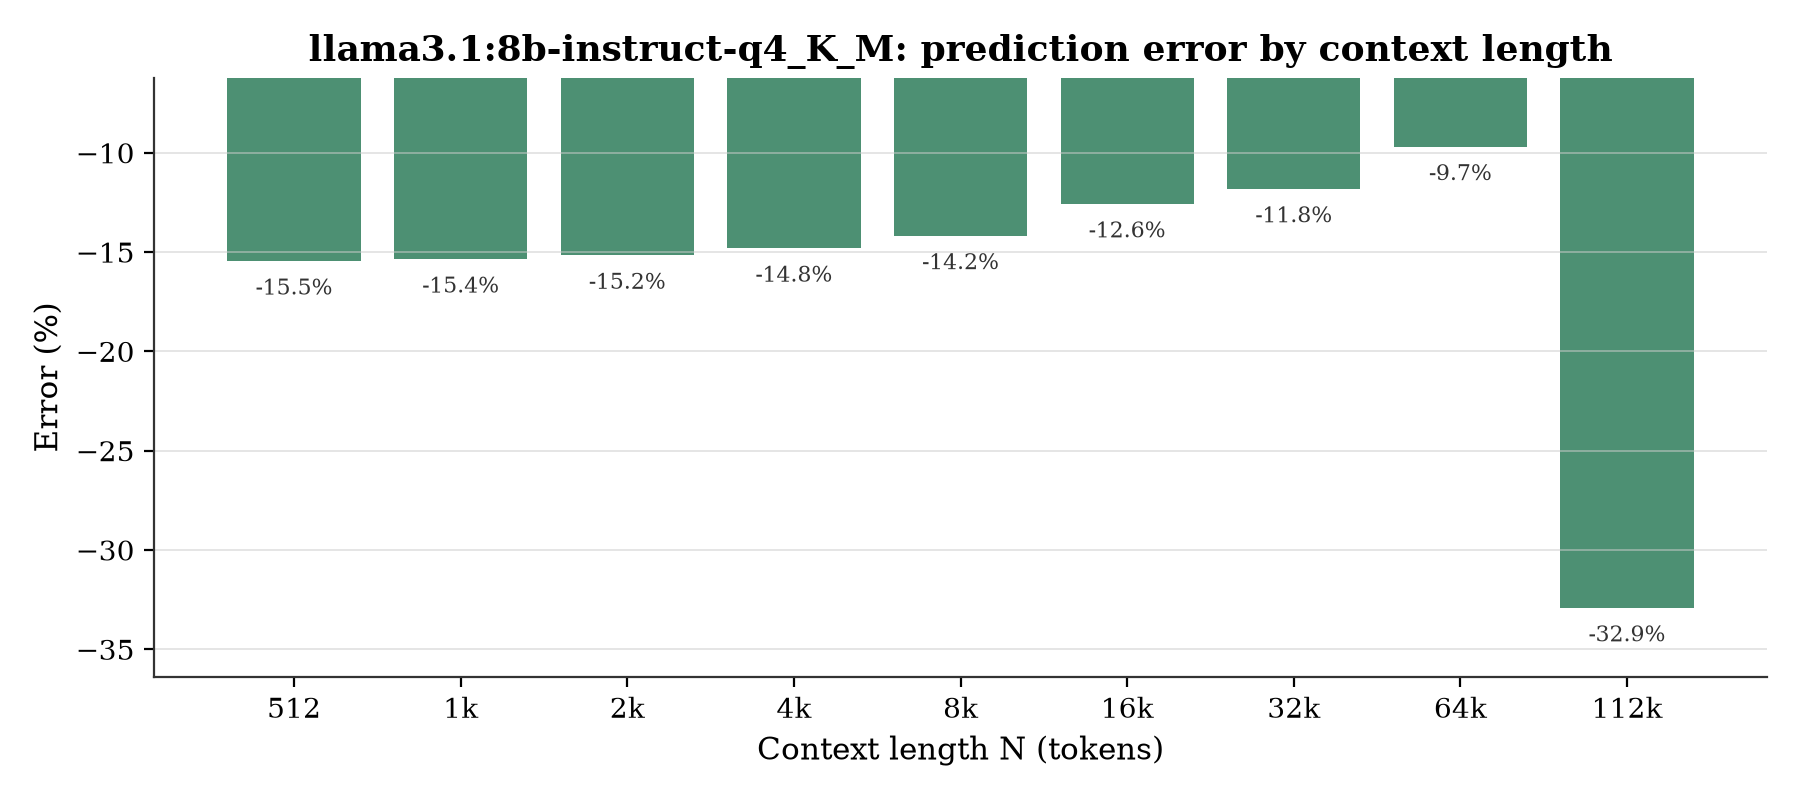
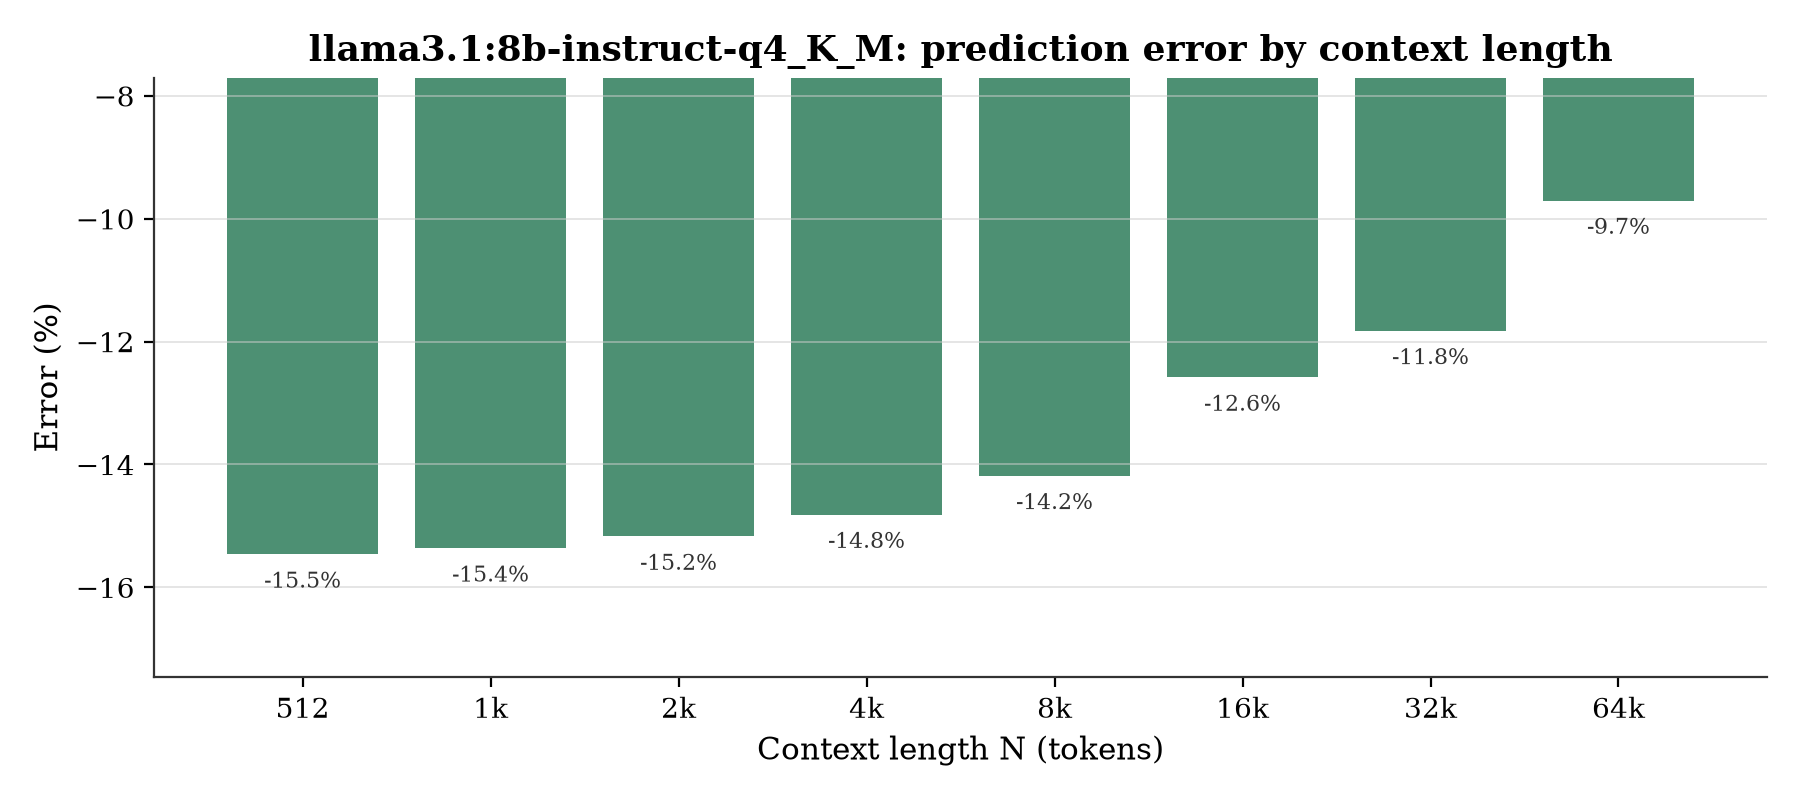
Final results I hope

diff --git a/results/rq4/csvs/ministral-3_8b-instruct-2512-q4_K_M/rq4_summary_table.tex b/results/rq4/csvs/ministral-3_8b-instruct-2512-q4_K_M/rq4_summary_table.tex
@@ -5,14 +5,13 @@
 $N$ (tokens) & Predicted (GB) & Measured (GB) & Error (\)) \\
 \midrule
 512 & 5.74 & 6.66 \pm 0.00 & +15.95 \\
-1,024 & 5.81 & 6.66 \pm 0.00 & +14.53 \\
+1,024 & 5.81 & 6.66 \pm 0.00 & +14.52 \\
 2,048 & 5.96 & 6.66 \pm 0.00 & +11.79 \\
 4,096 & 6.24 & 6.92 \pm 0.00 & +10.94 \\
 8,192 & 6.81 & 7.45 \pm 0.00 & +9.44 \\
-16,384 & 7.95 & 8.52 \pm 0.00 & +7.10 \\
+16,384 & 7.95 & 8.52 \pm 0.00 & +7.09 \\
 32,768 & 10.23 & 10.64 \pm 0.00 & +3.97 \\
 65,536 & 14.80 & 14.89 \pm 0.00 & +0.63 \\
-114,688 & 21.64 & 21.26 \pm 0.00 & -1.74 \\
 \bottomrule
 \end{tabular}
 \caption{Predicted vs. measured VRAM usage across context length for ministral-3:8b-instruct-2512-q4\_K\_M.}

diff --git a/results/rq4/csvs/ministral-3_8b-instruct-2512-q8_0/rq4_summary_table.tex b/results/rq4/csvs/ministral-3_8b-instruct-2512-q8_0/rq4_summary_table.tex
@@ -1,0 +1,19 @@
+\begin{table}[htbp]
+\centering
+\begin{tabular}{rrrr}
+\toprule
+$N$ (tokens) & Predicted (GB) & Measured (GB) & Error (\)) \\
+\midrule
+512 & 9.26 & 9.98 \pm 0.00 & +7.78 \\
+1,024 & 9.33 & 9.98 \pm 0.00 & +6.96 \\
+2,048 & 9.48 & 9.98 \pm 0.00 & +5.34 \\
+4,096 & 9.76 & 10.25 \pm 0.00 & +4.99 \\
+8,192 & 10.33 & 10.78 \pm 0.00 & +4.34 \\
+16,384 & 11.47 & 11.84 \pm 0.00 & +3.22 \\
+32,768 & 13.75 & 13.97 \pm 0.00 & +1.54 \\
+65,536 & 18.32 & 18.22 \pm 0.00 & -0.55 \\
+\bottomrule
+\end{tabular}
+\caption{Predicted vs. measured VRAM usage across context length for ministral-3:8b-instruct-2512-q8\_0.}
+\label{tab:rq4-vram-summary}
+\end{table}

diff --git a/results/rq4/csvs/llama3.1_8b-instruct-q8_0/rq4_summary_table.tex b/results/rq4/csvs/llama3.1_8b-instruct-q8_0/rq4_summary_table.tex
@@ -1,0 +1,19 @@
+\begin{table}[htbp]
+\centering
+\begin{tabular}{rrrr}
+\toprule
+$N$ (tokens) & Predicted (GB) & Measured (GB) & Error (\)) \\
+\midrule
+512 & 9.29 & 7.99 \pm 0.00 & -13.95 \\
+1,024 & 9.36 & 8.06 \pm 0.00 & -13.90 \\
+2,048 & 9.49 & 8.18 \pm 0.00 & -13.80 \\
+4,096 & 9.76 & 8.43 \pm 0.00 & -13.61 \\
+8,192 & 10.30 & 8.93 \pm 0.00 & -13.26 \\
+16,384 & 11.37 & 9.98 \pm 0.00 & -12.25 \\
+32,768 & 13.52 & 11.93 \pm 0.00 & -11.74 \\
+65,536 & 17.81 & 16.02 \pm 0.00 & -10.06 \\
+\bottomrule
+\end{tabular}
+\caption{Predicted vs. measured VRAM usage across context length for llama3.1:8b-instruct-q8\_0.}
+\label{tab:rq4-vram-summary}
+\end{table}

diff --git a/results/rq4/csvs/llama3.1_8b-instruct-q4_K_M/rq4_summary_table.tex b/results/rq4/csvs/llama3.1_8b-instruct-q4_K_M/rq4_summary_table.tex
@@ -12,7 +12,6 @@ $N$ (tokens) & Predicted (GB) & Measured (GB) & Error (\)) \\
 16,384 & 7.84 & 6.85 \pm 0.00 & -12.58 \\
 32,768 & 9.98 & 8.80 \pm 0.00 & -11.82 \\
 65,536 & 14.28 & 12.89 \pm 0.00 & -9.70 \\
-114,688 & 20.72 & 13.90 \pm 0.00 & -32.92 \\
 \bottomrule
 \end{tabular}
 \caption{Predicted vs. measured VRAM usage across context length for llama3.1:8b-instruct-q4\_K\_M.}
